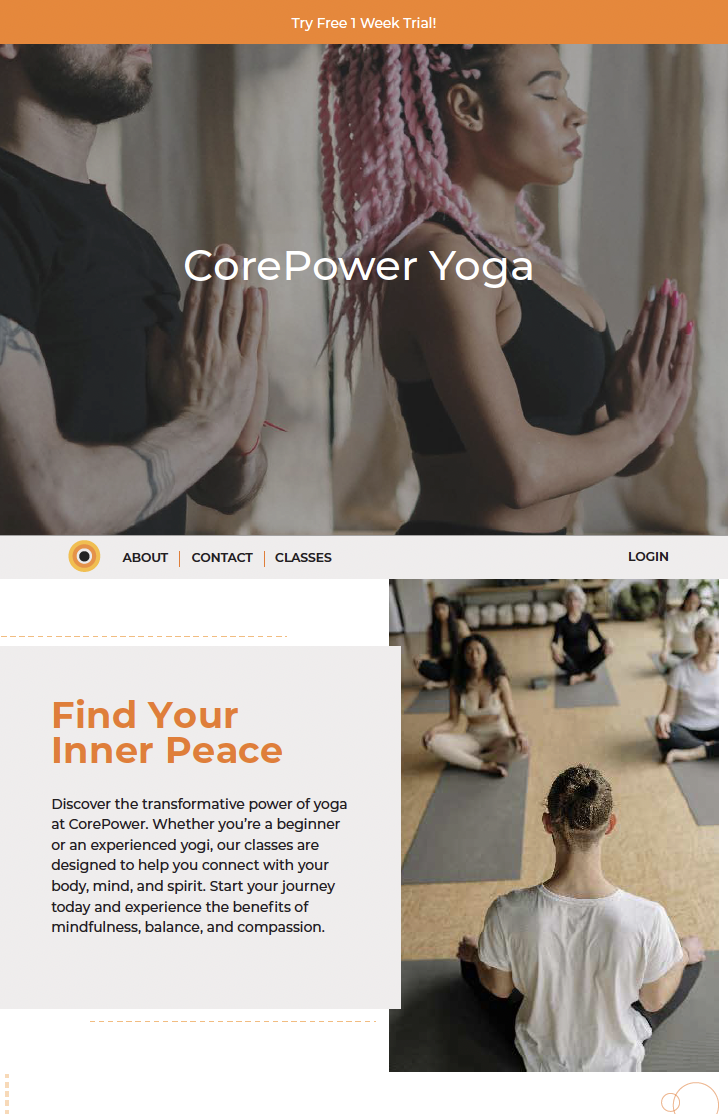
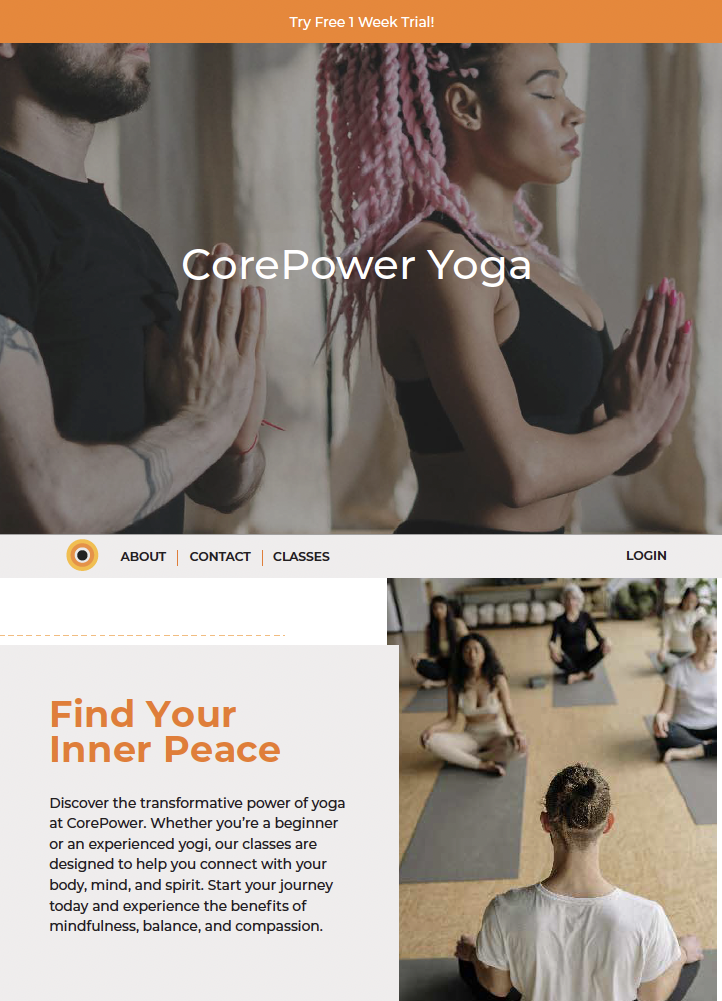
update

diff --git a/corepower.html b/corepower.html
@@ -306,7 +306,9 @@
                         </a>
                         <h4>Concept Design 1</h4>
                         <p>I kept the CorePower colors for my re-design but added more elements for Users to browse
-                            through the website providing more features on the Homepage.</p>
+                            through the website providing more features on the Homepage. I added symbols to make content
+                            easy to understand and played with lines and circles throughout the page to break the
+                            whitespace.</p>
                     </div>
 
                     <div class="column one-half">
@@ -328,10 +330,9 @@
 
                     <div class="column one-half">
                         <h3>Reflection</h3>
-                        <p>I learned a lot with breaking white space and adding abstract elements to the design. </p>
-                    </div>
-                    <div class="column one-half">
-                        <img src="img/gina-placeholder1x1.jpg" alt="">
+                        <p>I learned a lot with breaking white space and adding abstract elements to the design. I kept
+                            the consistency with the brand colors and structure while also breaking the white space with
+                            thin lined circles and dash lines & circles.</p>
                     </div>
                 </div>
             </div>
